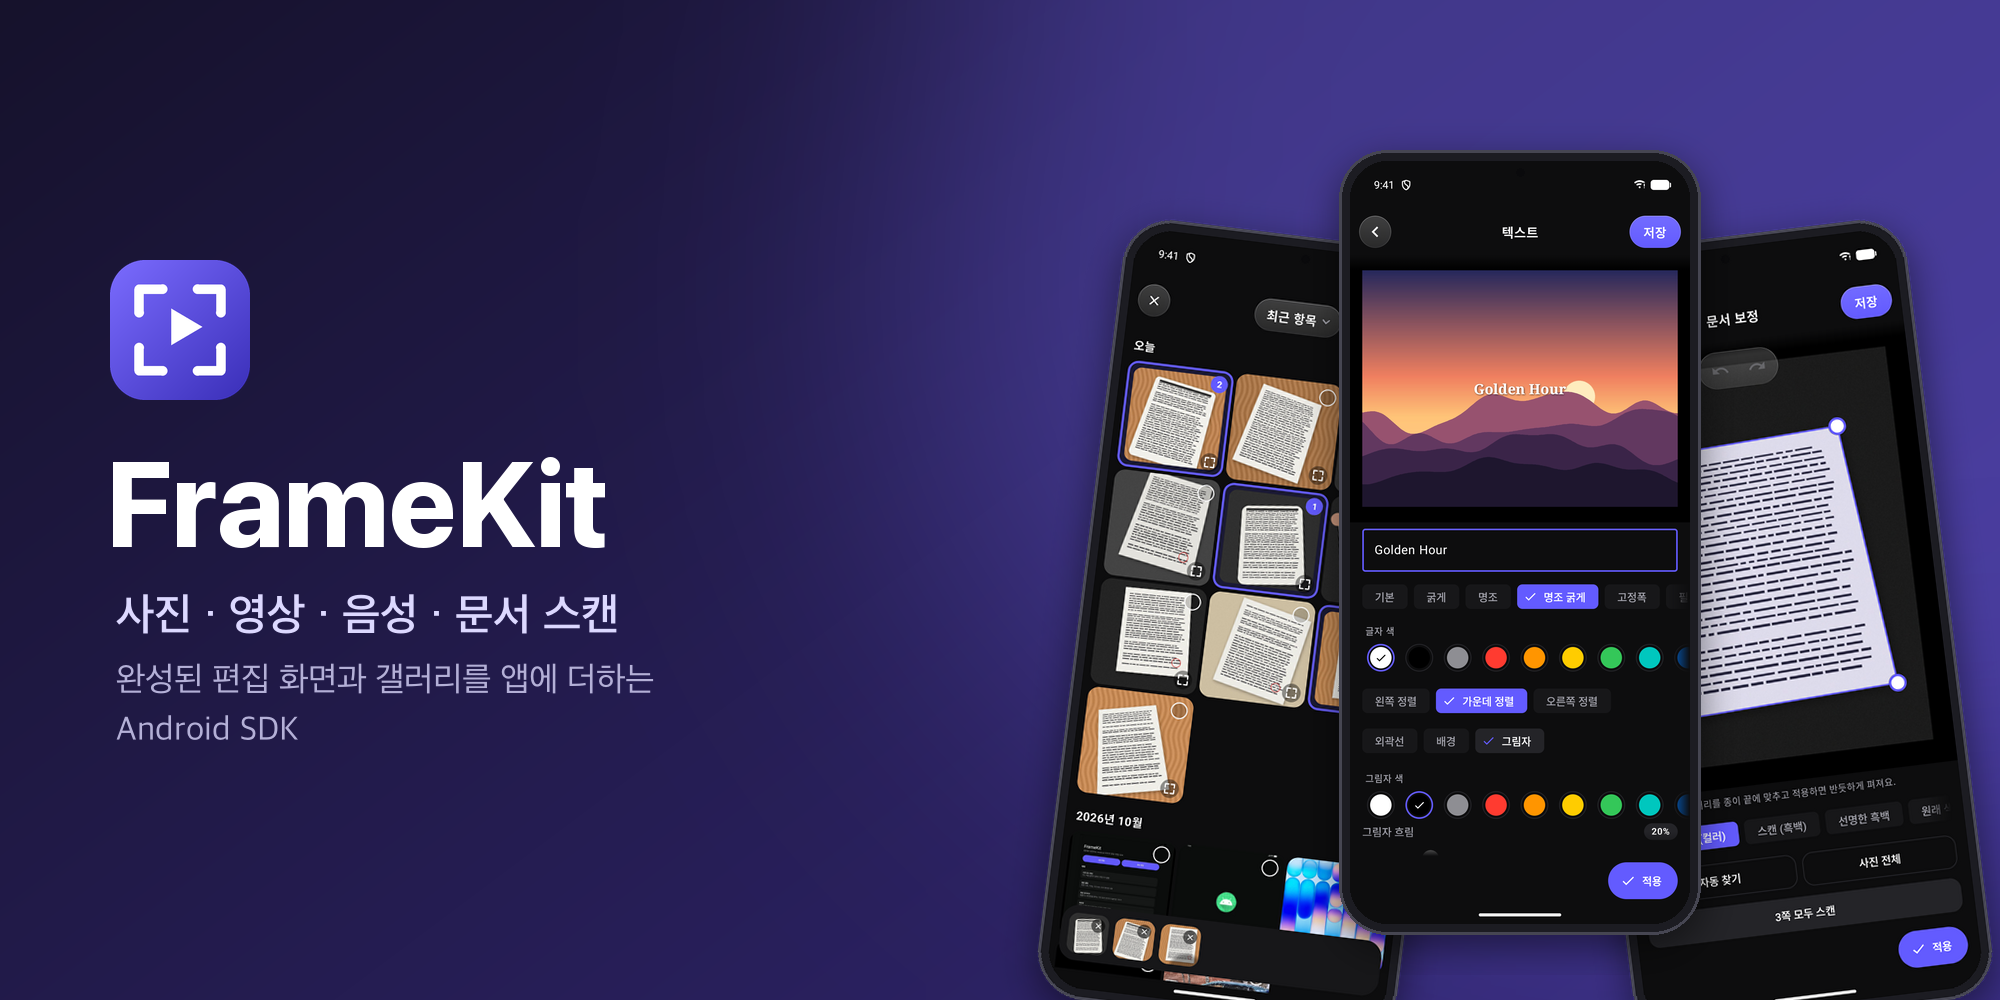
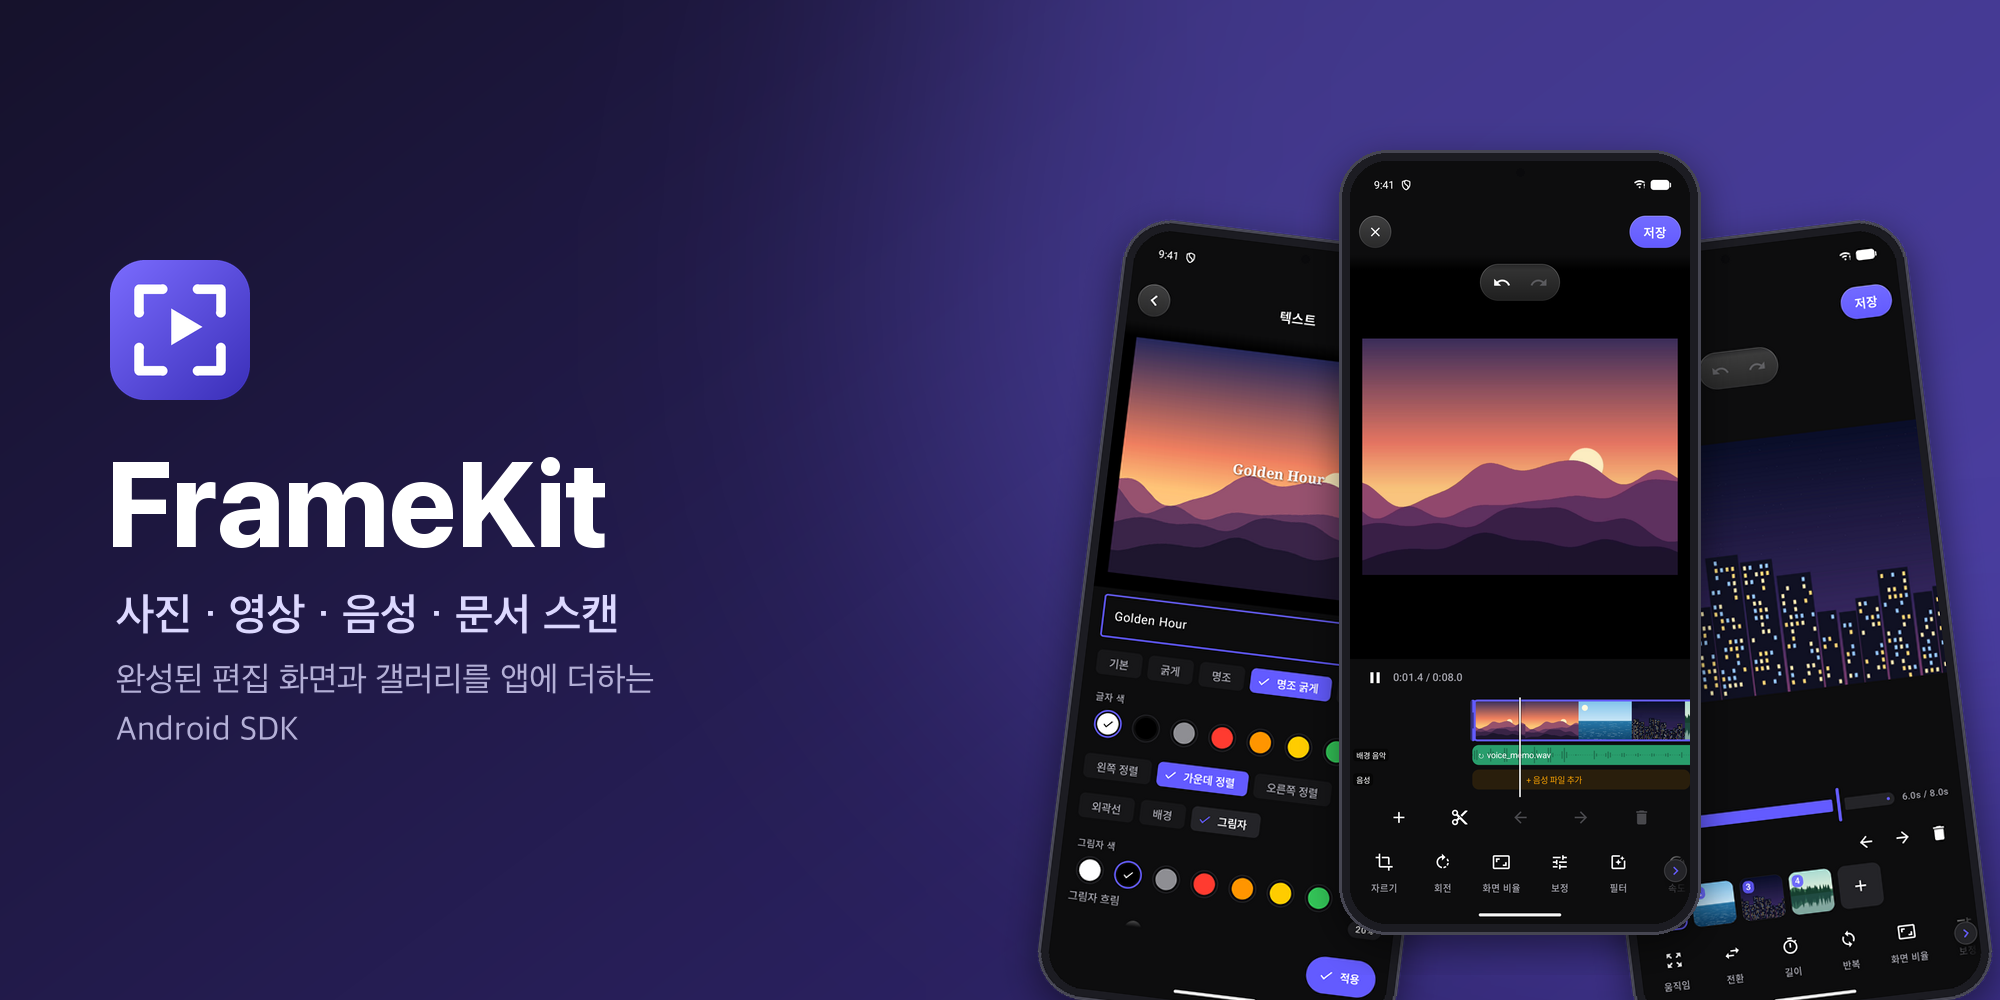
docs: 카메라 문서 스캐너 안내, 대표 이미지를 편집 화면으로 교체

Changed region(s): [[0.527, 0.217, 0.992, 1.0], [0.744, 0.868, 0.775, 0.899]]

diff --git a/README.md b/README.md
@@ -19,7 +19,7 @@
 ## 기능
 
 - **사진**: 자르기·회전, 보정·필터, 텍스트·스티커·그리기, 모자이크, 배경 제거, 여러 장 편집
-- **문서 스캔·PDF**: 문서 테두리 자동 인식과 원근 보정, 컬러·흑백 스캔, 여러 쪽 한 번에 스캔, 글자 검색이 되는 PDF
+- **문서 스캔·PDF**: 카메라로 문서 테두리를 실시간으로 찾아 자동 촬영, 원근 보정, 컬러·흑백 스캔, 여러 쪽 한 번에 스캔, 글자 검색이 되는 PDF
 - **영상**: 여러 클립 이어 붙이기·자르기, 보정·필터·속도, 배경 음악·음성, 텍스트·스티커, MP4 저장
 - **움직이는 이미지**: 사진으로 슬라이드쇼 만들기, GIF·WebP 편집, MP4·GIF·WebP 저장
 - **음성**: 녹음(탭·누르고 말하기), 소리 파일 편집, M4A 저장
@@ -92,6 +92,7 @@ dependencies {
 | `framekit-ui-motion` | 움직이는 이미지 편집기(`MotionEditorContract`) |
 | `framekit-ui-audio` | 음성 편집기(`AudioEditorContract`) |
 | `framekit-picker` | 앱 안 사진·영상 갤러리(`MediaPickerContract`) |
+| `framekit-scanner` | 카메라 문서 스캐너(`DocumentScanContract`) |
 | `framekit-segmentation` | (선택) 배경 제거 |
 | `framekit-ocr` | (선택) PDF 글자 검색 |
 
@@ -180,13 +181,16 @@ motion.launch(MotionEditorRequest(EditorInput.Pick(MediaKind.IMAGE, maxItems = 2
 ### 문서를 스캔해 PDF로
 
 ```kotlin
-editor.launch(
-    FrameKitRequest(
-        EditorInput.Pick(MediaKind.IMAGE, maxItems = 20),
-        imageExport = ImageExportConfig(format = ImageFormat.PDF, pdf = PdfOptions(pageSize = PdfPageSize.A4)),
-    ),
-)
+val pdf = ImageExportConfig(format = ImageFormat.PDF, pdf = PdfOptions(pageSize = PdfPageSize.A4))
+
+// 카메라로 스캔: 문서 테두리를 실시간으로 찾아 자동으로 찍고, 여러 쪽을 펴서 PDF 편집기로 넘긴다.
+editor.launch(FrameKitRequest(EditorInput.Capture(MediaKind.IMAGE), imageExport = pdf))
+
+// 이미 찍어 둔 사진으로
+editor.launch(FrameKitRequest(EditorInput.Pick(MediaKind.IMAGE, maxItems = 20), imageExport = pdf))
 ```
+
+카메라로 스캔할 때는 문서 테두리가 화면에 표시되고, 잠시 흔들리지 않으면 자동으로 찍힙니다(수동 촬영도 됩니다). 찍은 쪽은 반듯하게 펴서 PDF 편집기로 넘어갑니다. 스캐너만 따로 쓰려면 `DocumentScanContract`를 씁니다.
 
 PDF로 저장할 때는 편집기 도구 맨 앞에 **문서 보정**이 나옵니다. 문서 테두리를 자동으로 찾아 반듯하게 펴고, 컬러·흑백 스캔을 고를 수 있으며, **모든 쪽 스캔**으로 여러 쪽을 한 번에 처리합니다. 테두리를 찾지 못한 쪽은 모서리를 직접 맞추면 됩니다. `framekit-ocr`을 추가하면 PDF에서 글자 검색·복사가 됩니다.
 
@@ -238,7 +242,7 @@ picker.launch(MediaPickerRequest(MediaKind.ANY, maxItems = 10, maxFileSizeBytes 
 - 기본 모듈은 권한을 추가하지 않습니다. 원본 파일을 읽을 권한은 앱에서 확보해야 합니다.
 - 앱 안 갤러리에 쓰는 `READ_MEDIA_IMAGES`·`READ_MEDIA_VIDEO`는 Google Play 정책상 사진·영상 전체 접근이 핵심 기능인 앱만 선언할 수 있습니다. 해당하지 않으면 선언하지 마세요(시스템 사진 선택기로 동작).
 - 녹음 기능을 쓰려면 앱 manifest에 `RECORD_AUDIO`를 선언하세요. 선언하지 않으면 녹음 버튼이 표시되지 않습니다.
-- 앱이 `CAMERA`를 선언한 경우, 촬영할 때 SDK가 권한을 요청합니다.
+- 앱이 `CAMERA`를 선언한 경우, 촬영할 때 SDK가 권한을 요청합니다. 카메라 문서 스캐너(실시간 테두리 인식)는 `CAMERA`를 선언했을 때만 쓰며, 아니면 기기 카메라 앱으로 한 장을 찍어 펴 줍니다.
 - 배경 제거·글자 검색 모듈은 Google Play 서비스(ML Kit)가 필요하며 `INTERNET` 권한이 추가됩니다. 처음 사용할 때 모델을 내려받을 수 있습니다.
 - 사진과 영상을 함께 섞어 편집할 수는 없습니다.
 - 결과는 앱 내부 저장소에만 저장됩니다. 갤러리에 저장하려면 앱에서 직접 처리하세요.

diff --git a/docs/release-notes.md b/docs/release-notes.md
@@ -1,5 +1,14 @@
 # Release Notes
 
+## 다음 버전
+
+### 추가
+
+- `framekit-scanner`: 카메라 문서 스캐너. 미리보기에서 문서 테두리를 실시간으로 찾아 표시하고 자동 촬영, 여러 쪽 연속 촬영, 찍은 쪽을 펴서 스캔 보정. `DocumentScanContract`로 단독 사용
+- `EditorInput.Capture(MediaKind.IMAGE)`로 PDF를 만들면 스캐너로 찍은 뒤 PDF 편집기로 넘어감
+- 휘거나 접힌 종이: 실제 테두리 곡선을 찾아(`DocumentOutline`, `DocumentDetector.Analysis.outline`) 곡선을 따라 반듯하게 폄. 모서리도 휜 변에 끌려가지 않고 실제 모서리에 맞춤
+- 문서 감지: 글자가 빽빽한 영수증, 흰 종이를 밝은 바탕에 둔 경우에 더 잘 찾고, 카메라용 `insideOnly`(모서리가 화면 끝에 닿는 결과 제외) 옵션 추가
+
 ## 1.0.0-alpha04
 
 ### 바뀜

diff --git a/docs/configuration.md b/docs/configuration.md
@@ -244,3 +244,14 @@ FrameKitRequest(
 | `mimeTypes` | 비어 있음 | 보여 줄 형식. `image/jpeg`, `video/*` 형태. 비어 있으면 `kind`의 모든 형식 |
 | `style` | `AUTO` | `SYSTEM`이면 항상 시스템 사진 선택기 |
 | `ui` | 기본값 | 갤러리의 색·언어(`EditorUiConfig`) |
+
+## DocumentScanRequest
+
+`DocumentScanContract`로 여는 카메라 문서 스캔 요청입니다.
+
+| 필드 | 기본값 | 설명 |
+| --- | --- | --- |
+| `maxPages` | `20` | 한 번에 찍을 수 있는 최대 쪽 수, `1..50` |
+| `autoCapture` | `true` | 문서 테두리가 잠시 흔들리지 않으면 자동으로 찍음. 화면에서 끌 수 있음 |
+| `scanMode` | `COLOR` | 찍은 쪽에 적용할 스캔 보정(`COLOR`, `GRAYSCALE`, `BLACK_WHITE`, `ORIGINAL`) |
+| `ui` | 기본값 | 화면의 색·언어(`EditorUiConfig`) |
